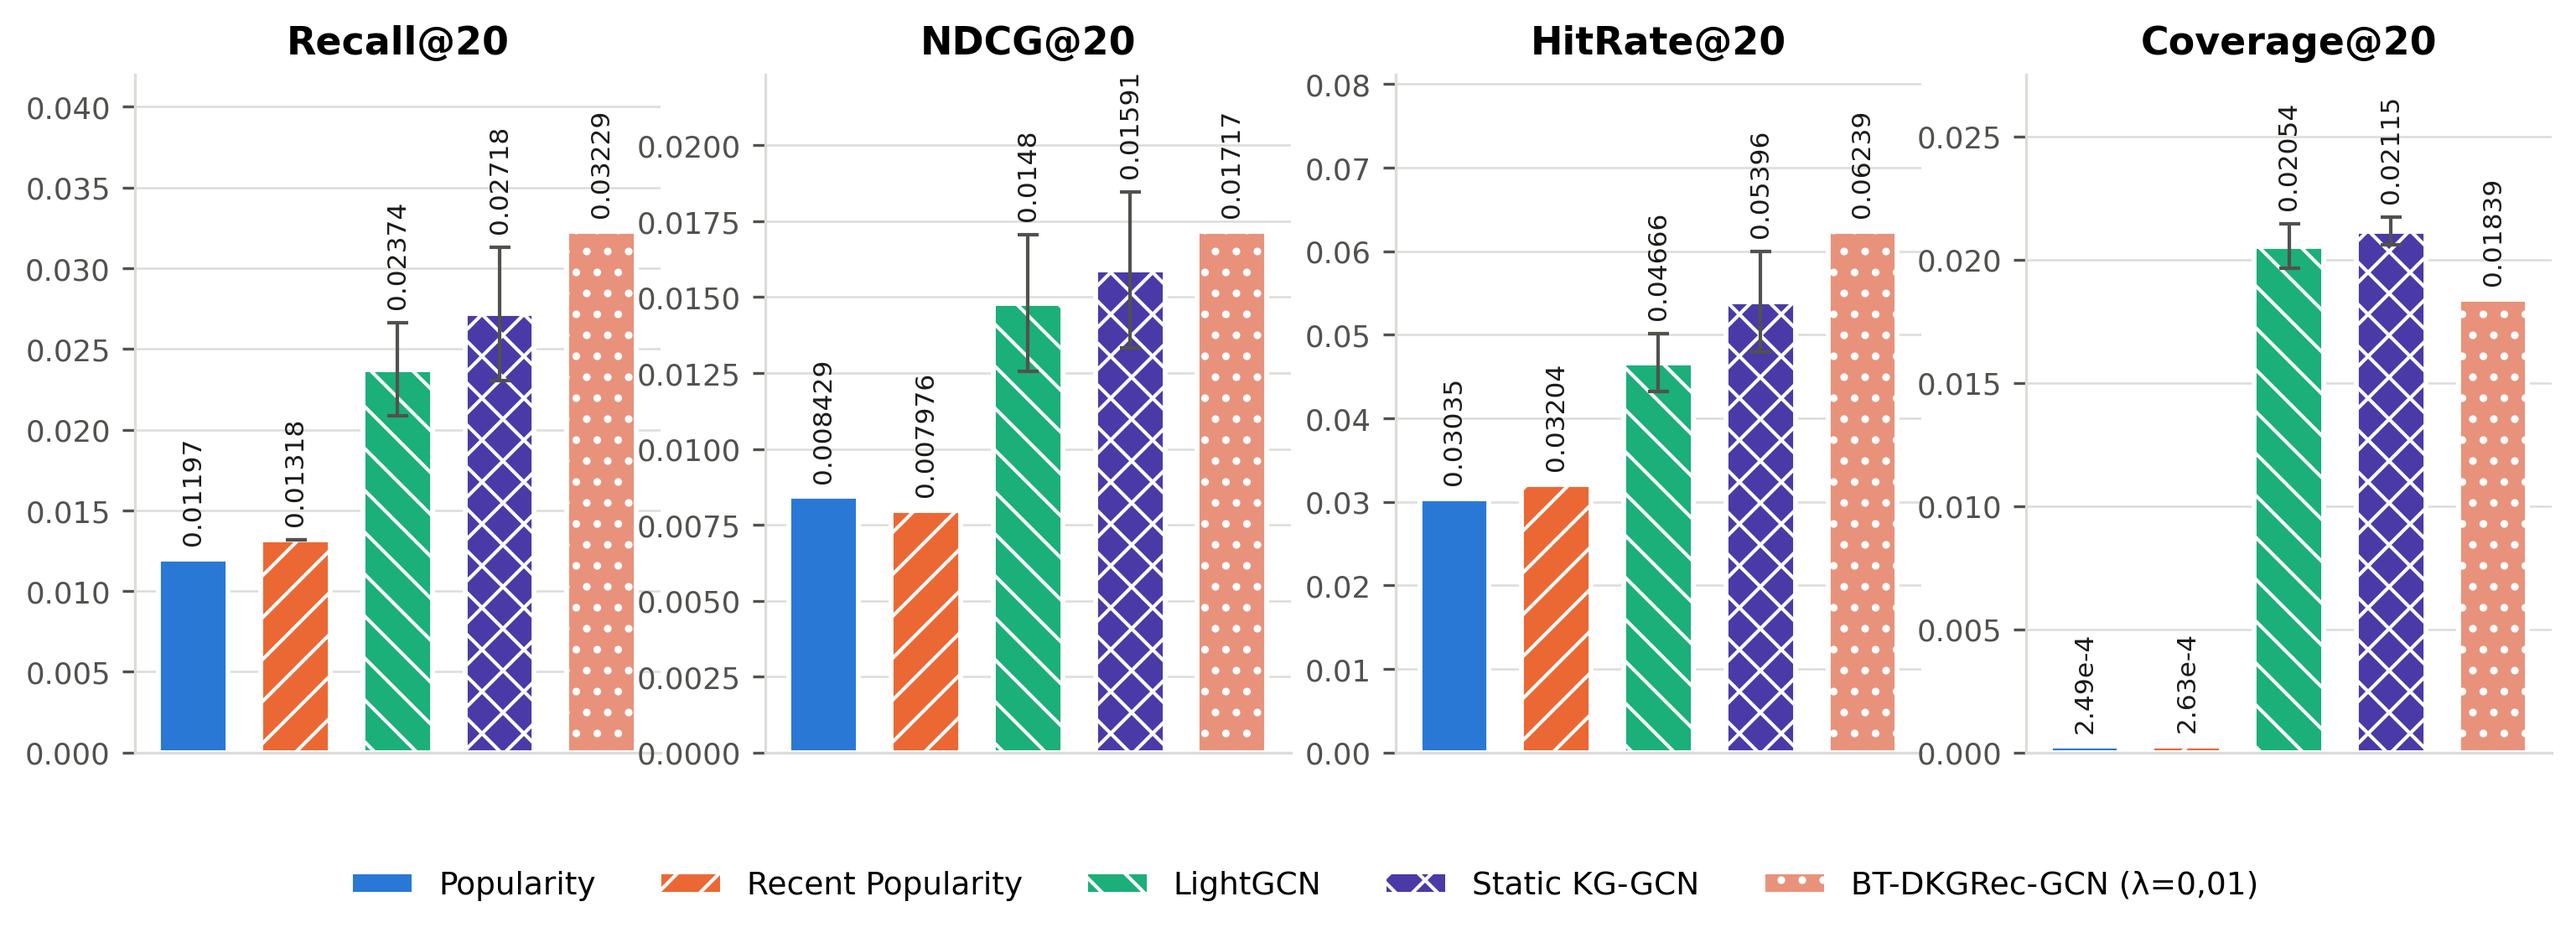
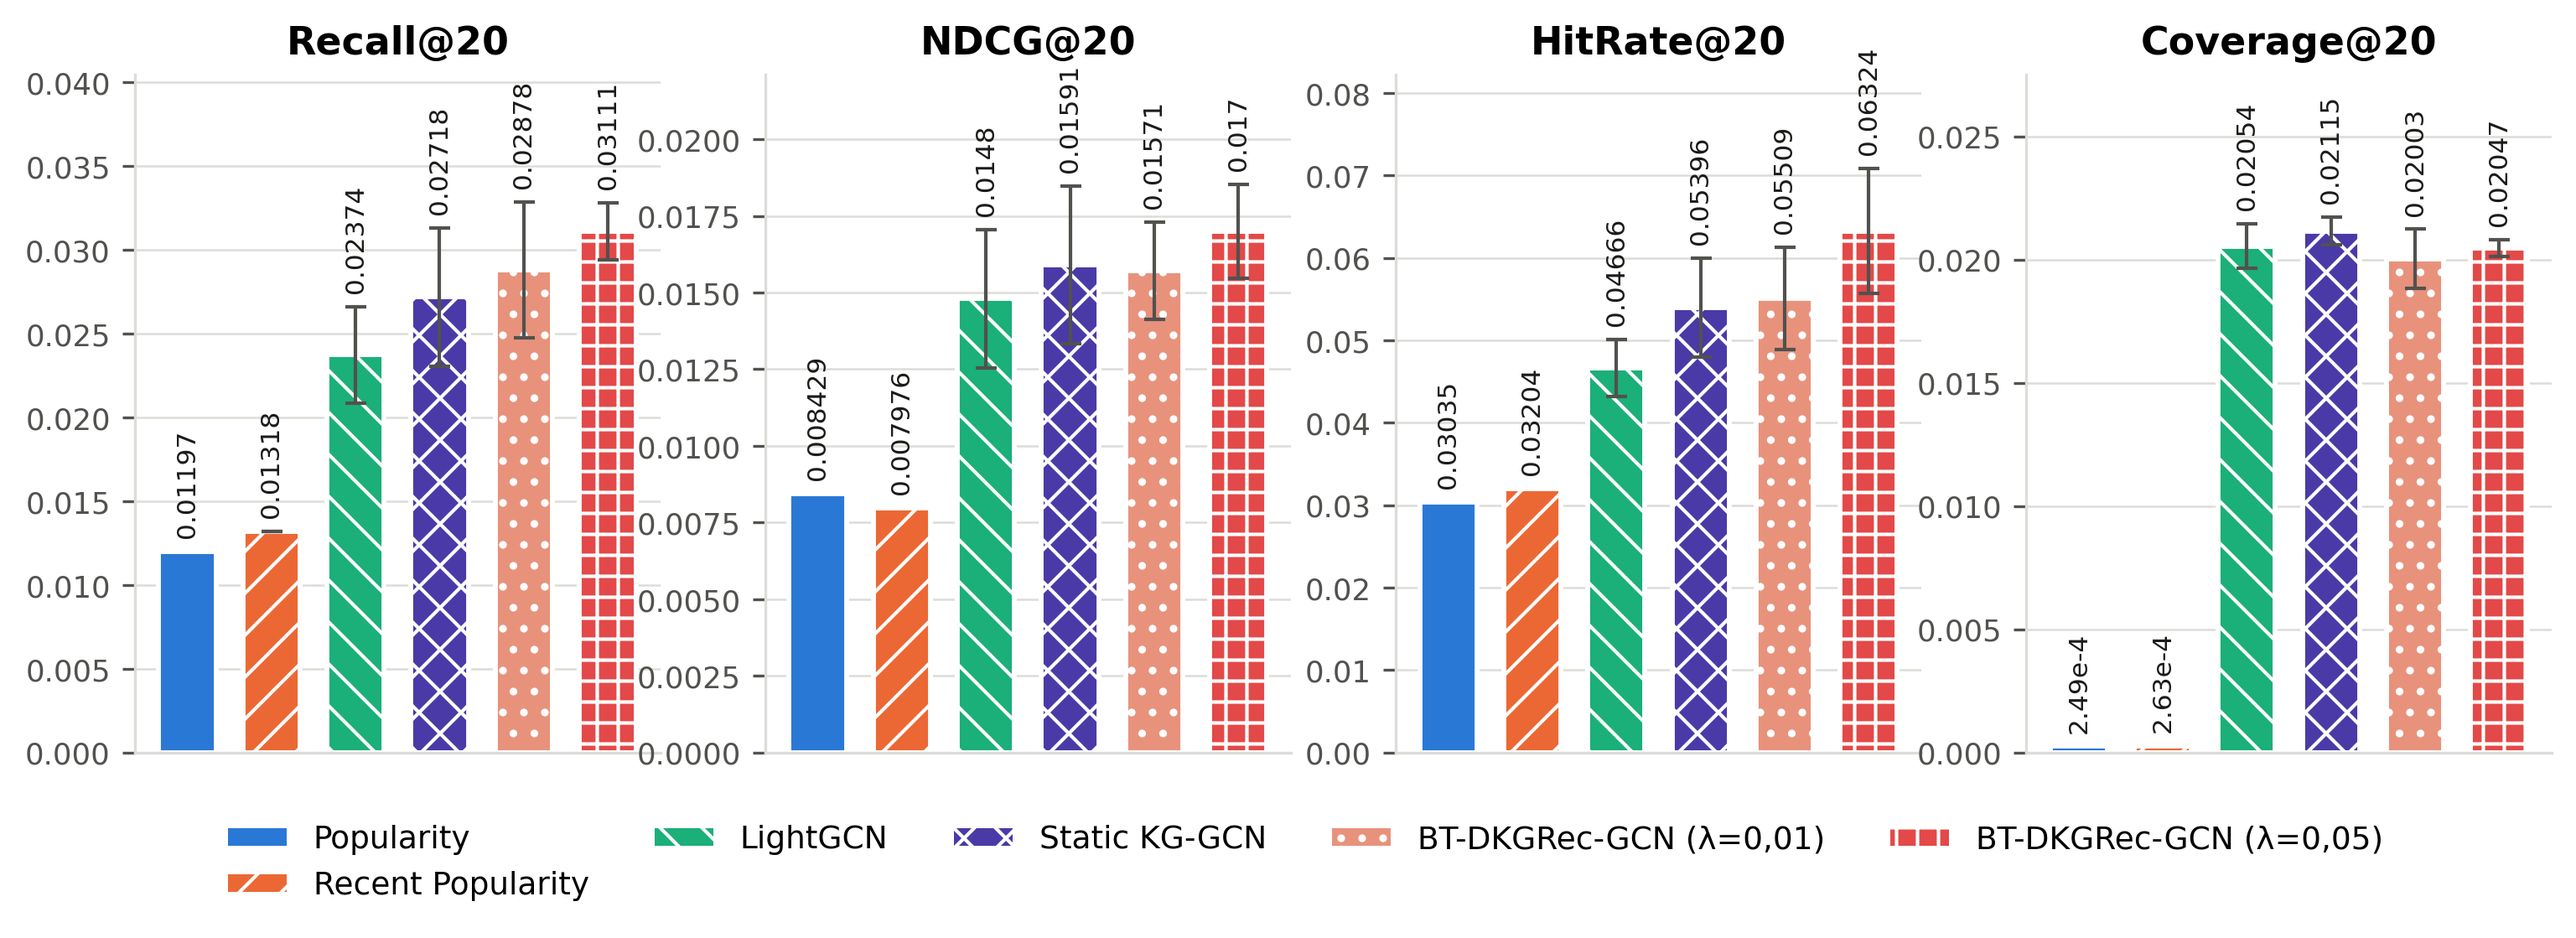
figures: noi them hinh ablation va warm/cold vao 09_make_figures
Hai loai bieu do da co san trong src/evaluation/figures.py nhung chua duoc goi:
plot_ablation_pair (KG tinh vs KG dong, ve ca hai cohort canh nhau) va
plot_warm_cold (warm/cold bao canh nhau, khong lay trung binh chung).

Chuong 4 tu 4 hinh len 6. Cohort active khong co user cold do duoc nen ham tra
None va khong sinh hinh rong.

diff --git a/scripts/09_make_figures.py b/scripts/09_make_figures.py
@@ -52,6 +52,7 @@ def main() -> int:
 
     frame = load_runs(args.runs_dir, split="test", segment="warm")
     assert_no_duplicate_cells(frame)
+    cold = load_runs(args.runs_dir, split="test", segment="cold")
 
     written = []
     for cohort in ("original", "active"):
@@ -65,6 +66,22 @@ def main() -> int:
             log.warning("cohort %s chua co run nao co duong loss", cohort)
         else:
             written.append(curve)
+
+        # Warm va cold bao canh nhau, khong bao gio lay trung binh chung. Ham tra
+        # None khi cohort khong co user cold do duoc — mot hinh rong se ngu y
+        # rang segment da duoc do va bang khong.
+        pair = figures.plot_warm_cold(frame, cold, cohort, args.out_dir, k=PRIMARY_K)
+        if pair is None:
+            log.info("cohort %s khong co user cold — bo qua hinh warm/cold", cohort)
+        else:
+            written.append(pair)
+
+    # So sanh cot loi cua de tai: KG tinh so voi KG dong. Ham nay ve ca hai cohort
+    # canh nhau nen goi MOT lan, ngoai vong lap.
+    if {"static_kg_gcn", "bt_dkgrec"} <= set(frame["model"]):
+        written.append(figures.plot_ablation_pair(frame, args.out_dir, k=PRIMARY_K))
+    else:
+        log.warning("chua du cap static_kg_gcn/bt_dkgrec — bo qua hinh ablation")
 
     print(f"Da ghi {len(written)} hinh vao {args.out_dir}:")
     for path in written:
